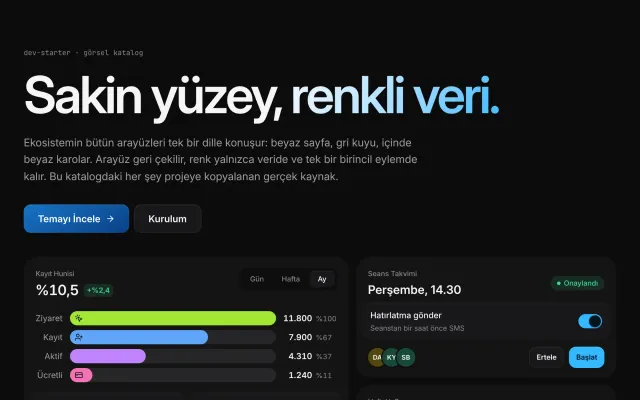
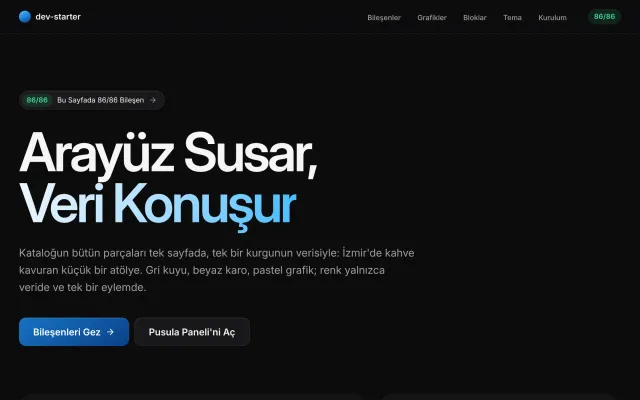
feat(projeler): dev-starter görselleri yeni vitrinden, sayılar güncel
Görseller Storybook'un "Her Şey Bir Arada" sayfasından (Title Case, 86/86
bileşen) yeniden çekildi; paylaşım kartı ve küçük kopyalar yenilendi.
Metindeki sayılar: 86 bileşen, 637 hikâye, tek komutla kurulum.

Claude-Session: https://claude.ai/code/session_01CjLDHnDgMdUNmyDxqPwrjP

diff --git a/lib/content/projects.ts b/lib/content/projects.ts
@@ -187,9 +187,9 @@ export const projects: Project[] = [
     slug: 'dev-starter',
     group: 'arac',
     description:
-      'Her yeni projeye sıfırdan başlamamak için kurduğum geliştirme altyapısı. İçinde dört hazır Next.js şablonu (full-stack uygulama, tanıtım sayfası, yapay zekâ sohbet arayüzü, belge sitesi), 73 kopyalanıp kullanılabilen arayüz parçası ve on iki adımlık bir rehber var. Bütün parçalar 541 hikâyelik bir Storybook kataloğunda açık ve koyu temada, on renk paletiyle canlı olarak gezilebiliyor.',
+      'Her yeni projeye sıfırdan başlamamak için kurduğum geliştirme altyapısı. İçinde dört hazır Next.js şablonu (full-stack uygulama, tanıtım sayfası, yapay zekâ sohbet arayüzü, belge sitesi), 86 kopyalanıp kullanılabilen arayüz parçası ve on iki adımlık bir rehber var. Bütün parçalar 637 hikâyelik bir Storybook kataloğunda açık ve koyu temada, on renk paletiyle canlı olarak gezilebiliyor; her parça tek komutla bir projeye kuruluyor.',
     detail:
-      'Tasarım dili sakin bir yüzey ve renkli veri üzerine kurulu: beyaz sayfa, gri kuyu, içinde beyaz karolar; renk yalnızca veride ve tek birincil eylemde. Tokenlar ve bileşenler iki ayrı npm paketi (@ahmetakyapi/theme, @ahmetakyapi/ui); on palet aynı token adlarını kullandığı için bir projenin rengini değiştirmek tek satır ve her paletin kontrastı testte ölçülüyor. Katalogdaki “Pusula” örneği 73 bileşenin hepsini tek bir uygulamada, tutarlı örnek veriyle bir arada gösteriyor. Yanında Claude Code için uzman ajanlar (strateji, tasarım denetimi, metin editörü, kalite kapısı) ve projelerde yaşanmış hataların tutulduğu bir bilgi tabanı duruyor.',
+      'Tasarım dili sakin bir yüzey ve renkli veri üzerine kurulu: beyaz sayfa, gri kuyu, içinde beyaz karolar; renk yalnızca veride ve tek birincil eylemde. Tokenlar ve bileşenler iki ayrı npm paketi (@ahmetakyapi/theme, @ahmetakyapi/ui); on palet aynı token adlarını kullandığı için bir projenin rengini değiştirmek tek satır ve her paletin kontrastı testte ölçülüyor. Katalogdaki “Pusula” örneği 86 bileşenin hepsini tek bir uygulamada, tutarlı örnek veriyle bir arada gösteriyor. Yanında Claude Code için uzman ajanlar (strateji, tasarım denetimi, metin editörü, kalite kapısı) ve projelerde yaşanmış hataların tutulduğu bir bilgi tabanı duruyor.',
     tags: ['Next.js 16', 'TypeScript', 'Tailwind v4', 'Storybook 10', 'Claude Code'],
     link: 'https://dev-starter-storybook.vercel.app',
     github: 'https://github.com/ahmetakyapi/dev-starter',
